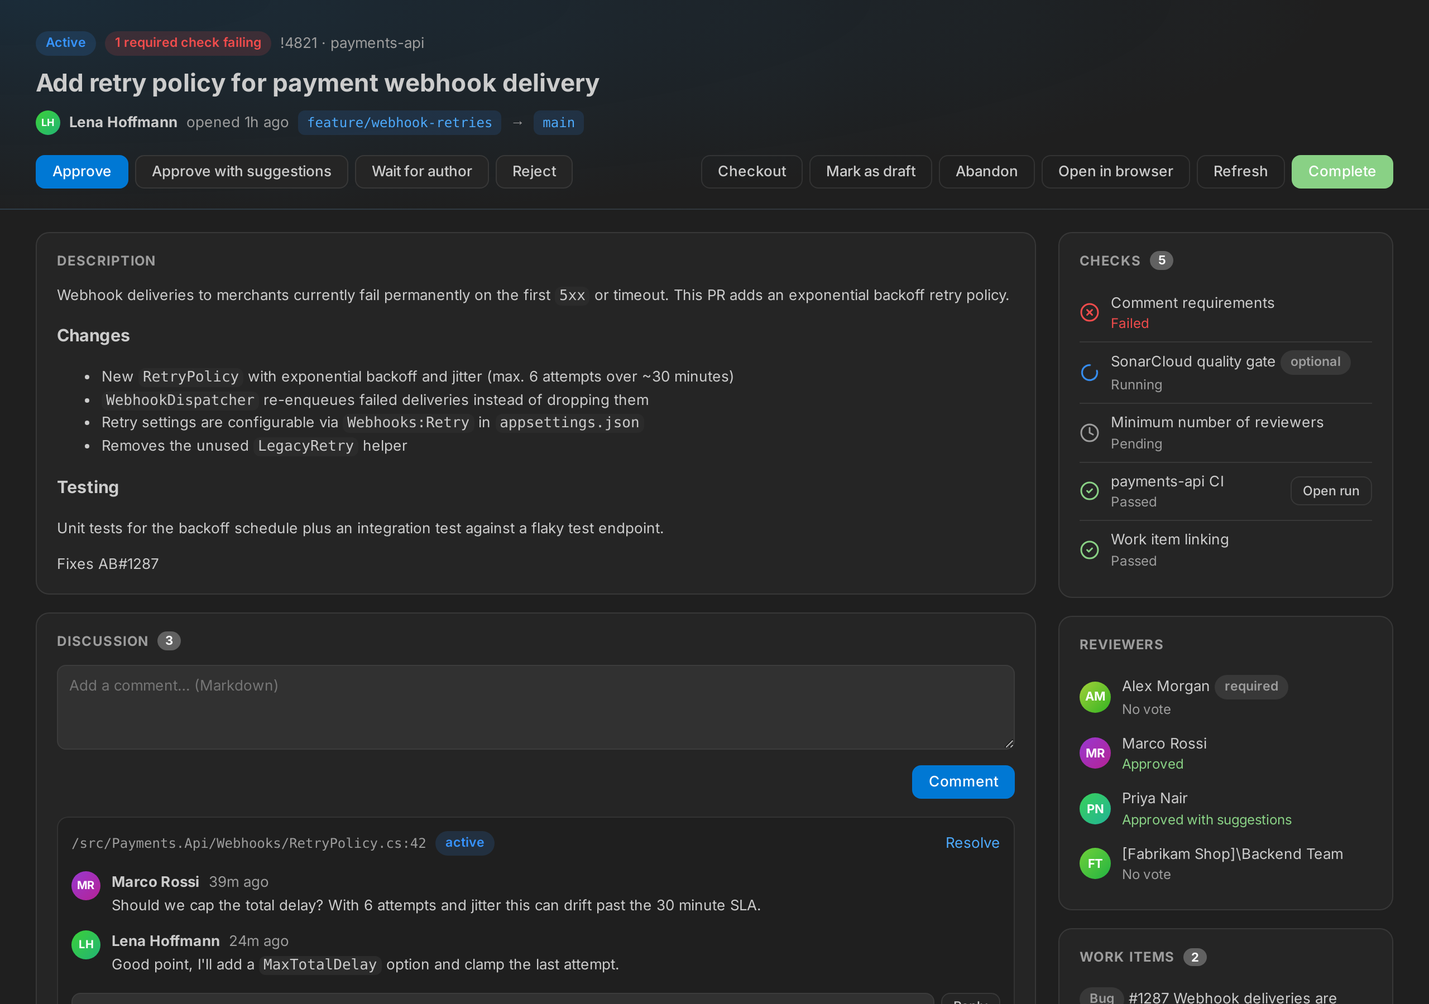
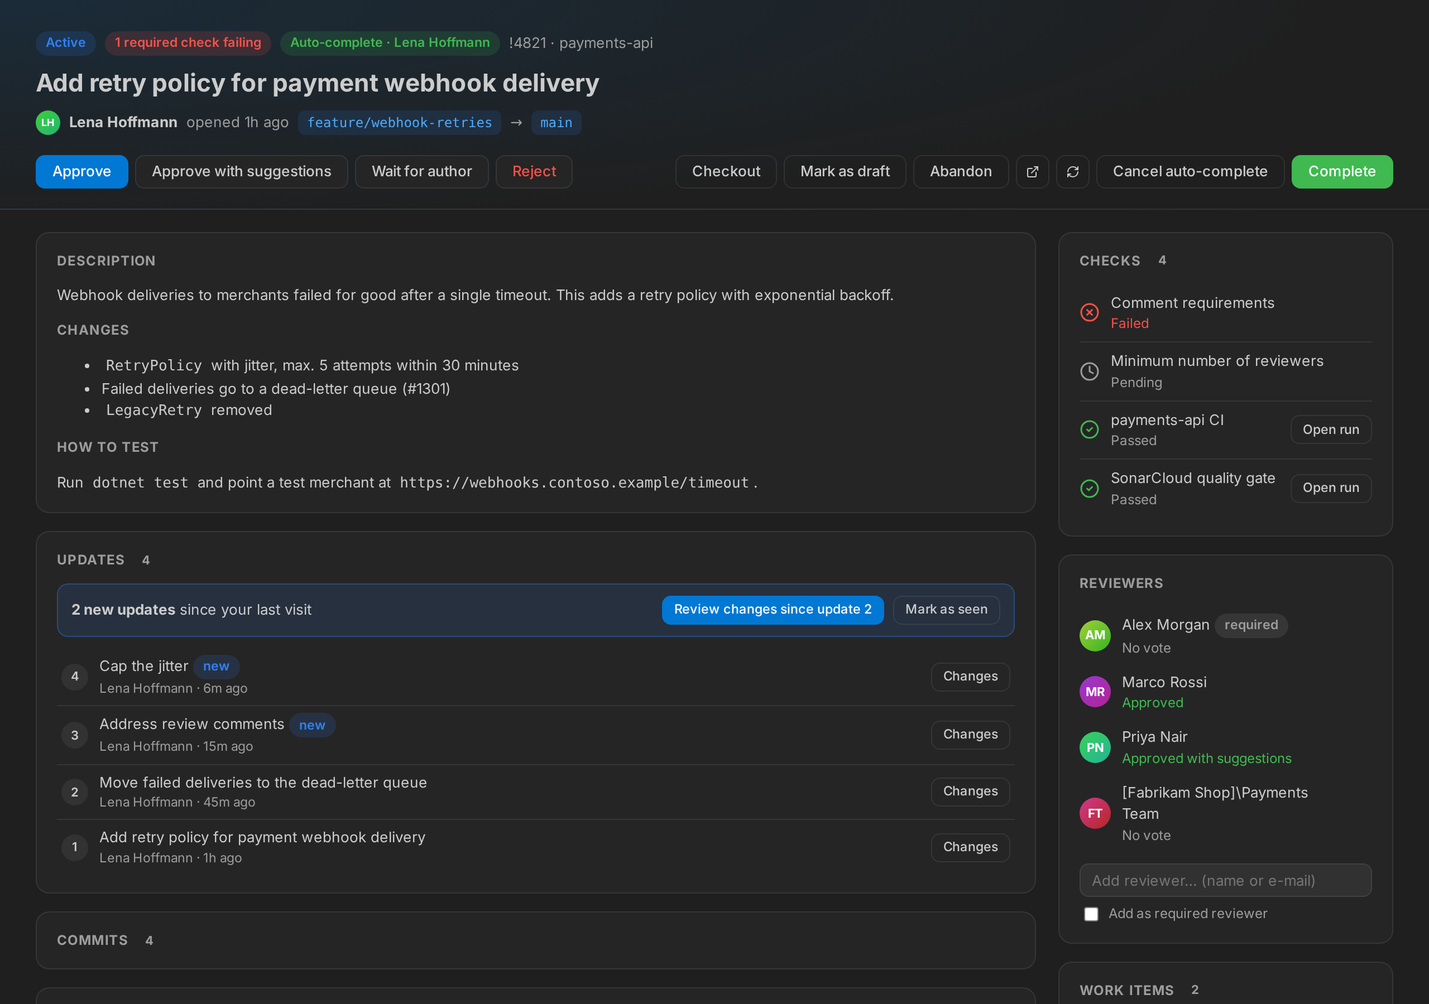
Update screenshots and fix layout issues they revealed
New screenshots for the sprint tab, project picker, pull request form,
work item and branches; refreshed pull requests, work items, pipelines,
PR overview and run overview.

Layout fixes: only the active sidebar tab shows its label, work item card
actions float on hover, icon buttons for refresh/open in browser in the
panel toolbars, two-column work item details with short path names,
branch list columns, checkbox widths and the log/branch filter fields.

diff --git a/media/panel.css b/media/panel.css
@@ -87,7 +87,7 @@ button { font: inherit; cursor: pointer; }
 .md code { padding: 1px 4px; }
 .md p:first-child { margin-top: 0; } .md p:last-child { margin-bottom: 0; }
 
-textarea, input {
+textarea, input:not([type=checkbox]):not([type=radio]) {
   width: 100%; font: inherit; color: var(--vscode-input-foreground); background: var(--vscode-input-background);
   border: 1px solid var(--vscode-input-border, var(--border)); border-radius: 8px; padding: 8px 10px; outline: none; resize: vertical;
 }
@@ -385,16 +385,20 @@ details.card[open] > summary h2 { margin-bottom: 10px; }
 .commit .grow { white-space: nowrap; overflow: hidden; text-overflow: ellipsis; }
 
 /* ---------- work item details ---------- */
-.field.edit { align-items: center; }
-.field-input { min-width: 0; max-width: 60%; height: 26px; padding: 0 6px; border-radius: 6px; border: 1px solid var(--border);
+.field.edit { display: grid; grid-template-columns: 120px minmax(0, 1fr); align-items: center; gap: 10px; }
+.field.edit > .muted { white-space: nowrap; overflow: hidden; text-overflow: ellipsis; }
+.field-input { width: 100%; min-width: 0; height: 26px; padding: 0 6px; border-radius: 6px; border: 1px solid var(--border);
   background: var(--vscode-input-background); color: var(--vscode-input-foreground); font: inherit; }
 .field-input:focus { outline: none; border-color: var(--vscode-focusBorder); }
-input.field-input { width: 60%; }
-.assignee { display: flex; align-items: center; gap: 6px; }
+input.field-input { padding: 0 8px; }
+.assignee { display: flex; align-items: center; gap: 6px; min-width: 0; }
+.assignee > span:not(.avatar) { flex: 1; min-width: 0; white-space: nowrap; overflow: hidden; text-overflow: ellipsis; }
+.assignee .avatar { flex: none; }
 .sub-h { margin: 12px 0 4px; font-size: 11px; text-transform: uppercase; letter-spacing: .06em; color: var(--muted); display: flex; gap: 6px; align-items: center; }
 .sub-h:first-of-type { margin-top: 0; }
 .add-child { display: flex; gap: 6px; margin-top: 8px; }
-.add-child input { flex: 1; min-width: 0; }
+.add-child input { flex: 1; min-width: 0; height: 28px; padding: 0 8px; }
+.add-child .btn { height: 28px; }
 .add-child select { height: 28px; border-radius: 6px; border: 1px solid var(--border); background: var(--vscode-input-background); color: var(--fg); }
 .hist { padding: 8px 0; border-top: 1px solid var(--border); }
 .hist:first-of-type { border-top: 0; }
@@ -412,16 +416,20 @@ input.field-input { width: 60%; }
 .cpr-commits ul { margin: 4px 0 0; padding-left: 18px; color: var(--muted); font-size: 12.5px; max-height: 200px; overflow: auto; }
 
 /* ---------- repositories & branches ---------- */
+.run.repos { max-width: 1080px; }
+.log-search input, .run .log-search input:not([type=checkbox]) { border: 0; padding: 0; min-height: 0; background: transparent; box-shadow: none; width: auto; flex: 1; }
 .repos .run-head select { height: 30px; border-radius: 8px; padding: 0 8px; border: 1px solid var(--border); background: var(--vscode-input-background); color: var(--fg); max-width: 40%; }
 .repo-bar { display: flex; align-items: center; gap: 6px; flex-wrap: wrap; margin: 0 0 12px; }
 .repo-bar .log-search input { width: 220px; }
 .branch-list { display: flex; flex-direction: column; gap: 6px; }
-.branch-row { display: grid; grid-template-columns: minmax(0, 1fr) 190px auto; align-items: center; gap: 12px; padding: 8px 12px;
+.branch-row { display: grid; grid-template-columns: minmax(0, 1fr) 170px 330px; align-items: center; gap: 16px; padding: 8px 12px;
   border: 1px solid var(--border); border-radius: 10px; background: var(--card); }
 .branch-row.current { border-color: color-mix(in srgb, var(--ok) 50%, var(--border)); }
-.branch-main { min-width: 0; }
-.branch-main .small { white-space: nowrap; overflow: hidden; text-overflow: ellipsis; }
-.branch-actions { display: flex; gap: 4px; flex-wrap: wrap; justify-content: flex-end; opacity: .55; transition: opacity .15s; }
+.branch-main { min-width: 0; display: flex; flex-direction: column; align-items: flex-start; gap: 2px; }
+.branch-main .branch { max-width: 100%; white-space: nowrap; overflow: hidden; text-overflow: ellipsis; }
+.branch-row > .pill { justify-self: start; }
+.branch-main .small { max-width: 100%; white-space: nowrap; overflow: hidden; text-overflow: ellipsis; }
+.branch-actions { display: flex; gap: 4px; flex-wrap: nowrap; justify-content: flex-end; opacity: .55; transition: opacity .15s; }
 .branch-row:hover .branch-actions, .branch-actions:focus-within { opacity: 1; }
 .btn.danger { color: var(--bad); }
 .ab { display: grid; grid-template-columns: 3ch 1fr 1fr 3ch; align-items: center; gap: 4px; font-size: 11px; color: var(--muted); }
@@ -433,4 +441,7 @@ input.field-input { width: 60%; }
 .ab-bar.behind span { background: var(--muted); border-radius: 3px 0 0 3px; }
 .ab-bar.ahead span { background: var(--info); border-radius: 0 3px 3px 0; }
 .btn.more { align-self: center; margin-top: 6px; }
-@media (max-width: 760px) { .branch-row { grid-template-columns: minmax(0, 1fr); } .branch-actions { justify-content: flex-start; opacity: 1; } }
+@media (max-width: 900px) { .branch-row { grid-template-columns: minmax(0, 1fr); } .branch-actions { flex-wrap: wrap; } .branch-actions { justify-content: flex-start; opacity: 1; } }
+
+.btn.icon-only { padding: 0 8px; display: inline-flex; align-items: center; justify-content: center; }
+.btn .i { width: 16px; height: 16px; }

diff --git a/media/sidebar.css b/media/sidebar.css
@@ -104,25 +104,29 @@ button { font: inherit; color: inherit; background: none; border: 0; cursor: poi
 
 /* ---------- tabs ---------- */
 .tabs {
-  position: relative; display: grid; grid-template-columns: repeat(4, 1fr);
+  position: relative; display: flex;
   margin: 0 12px; padding: 3px; border-radius: 10px;
   background: color-mix(in srgb, var(--fg) 6%, var(--bg));
   border: 1px solid var(--border);
 }
 .tab-indicator {
   position: absolute; top: 3px; bottom: 3px; left: 3px;
-  width: calc((100% - 6px) / 4);
-  transform: translateX(calc(var(--idx, 0) * 100%));
+  /* position and width of the active tab, set from sidebar.js */
+  width: var(--w, 25%);
+  transform: translateX(var(--x, 0));
   border-radius: 7px;
   background: var(--vscode-editor-background);
   box-shadow: 0 1px 3px rgb(0 0 0 / .18), 0 0 0 1px var(--border);
-  transition: transform .28s var(--ease);
+  transition: transform .28s var(--ease), width .28s var(--ease);
 }
 .tab {
   position: relative; z-index: 1; display: flex; align-items: center; justify-content: center; gap: 6px;
   height: 28px; padding: 0 6px; border-radius: 7px; color: var(--muted); font-weight: 500; font-size: 12px;
-  transition: color .2s; min-width: 0;
+  transition: color .2s; min-width: 0; flex: 1 1 0;
 }
+/* Only the active tab shows its label, so four tabs fit a narrow sidebar; the others show icon and count. */
+.tab.active { flex: 2.2 1 0; }
+.tab:not(.active) .tab-label { display: none; }
 .tab .i { width: 14px; height: 14px; }
 .tab:hover, .tab.active { color: var(--fg); }
 .tab-label { white-space: nowrap; overflow: hidden; text-overflow: ellipsis; }
@@ -132,7 +136,7 @@ button { font: inherit; color: inherit; background: none; border: 0; cursor: poi
   background: var(--vscode-badge-background); color: var(--vscode-badge-foreground);
 }
 .tab:not(.active) .badge { background: var(--border-strong); color: var(--fg); }
-@media (max-width: 380px) { .tab-label { display: none; } }
+@media (max-width: 260px) { .tab-label { display: none; } .tab.active { flex: 1 1 0; } }
 
 /* ---------- toolbar ---------- */
 .toolbar { padding: 10px 12px 6px; display: flex; flex-direction: column; gap: 8px; }
@@ -146,7 +150,7 @@ button { font: inherit; color: inherit; background: none; border: 0; cursor: poi
 .search .i { width: 14px; height: 14px; }
 .search input { flex: 1; min-width: 0; border: 0; outline: none; background: none; color: var(--vscode-input-foreground); font: inherit; }
 .search input::placeholder { color: var(--vscode-input-placeholderForeground); }
-.filters { min-height: 26px; }
+.filters { min-height: 26px; display: flex; flex-direction: column; gap: 8px; }
 .chips { display: flex; gap: 6px; flex-wrap: wrap; flex: 1; }
 .chip {
   height: 24px; padding: 0 10px; border-radius: 99px; font-size: 11.5px; font-weight: 500;
@@ -212,6 +216,14 @@ button { font: inherit; color: inherit; background: none; border: 0; cursor: poi
 }
 .card:hover .card-actions, .card:focus-within .card-actions, .card.open .card-actions { opacity: 1; transform: none; }
 @media (hover: none) { .card-actions { opacity: 1; transform: none; } }
+/* Work item cards have five actions: a floating row on hover instead of a column that makes every card tall. */
+.card.wi .card-actions {
+  position: absolute; top: 6px; right: 6px; z-index: 2; flex-direction: row; margin: 0; padding: 2px;
+  border-radius: 8px; background: var(--card-hover); border: 1px solid var(--border); box-shadow: 0 6px 16px -8px rgb(0 0 0 / .6);
+  pointer-events: none;
+}
+.card.wi:hover .card-actions, .card.wi:focus-within .card-actions { pointer-events: auto; }
+@media (hover: none) { .card.wi .card-actions { position: static; box-shadow: none; pointer-events: auto; } }
 
 .tag {
   display: inline-flex; align-items: center; height: 17px; padding: 0 6px; margin-right: 4px; border-radius: 5px;

diff --git a/src/workItems/wiPanel.ts b/src/workItems/wiPanel.ts
@@ -2,7 +2,7 @@ import * as vscode from 'vscode';
 import { AdoClient, PrArtifact, parsePrArtifact } from '../client';
 import { PullRequest, WorkItem, WorkItemComment, WorkItemState, WorkItemTypeField, WorkItemUpdate } from '../types';
 import {
-  avatarHtml, errorMessage, escapeHtml, guarded, LINK_PICKER_SCRIPT, LinkCandidate, linkPickerHtml, panelHtml, sanitizeHtml, shortRef, showError, timeAgo,
+  avatarHtml, errorMessage, escapeHtml, guarded, LINK_PICKER_SCRIPT, LinkCandidate, linkPickerHtml, panelHtml, sanitizeHtml, shortRef, showError, timeAgo, viewButtonsHtml,
 } from '../util';
 import { EditableField, editableFields, hierarchyOf, HistoryEntry, historyEntries, joinTags, PARENT_REL, splitTags } from './wiModel';
 
@@ -327,10 +327,17 @@ function hierarchyHtml(v: View): string {
   </div>`;
 }
 
+/** Iteration and area paths without the project name ("Sprint 42" instead of "Fabrikam Shop\\Sprint 42"). */
+function pathLabel(path: string): string {
+  const parts = path.split('\\');
+  return parts.length > 1 ? parts.slice(1).join(' › ') : path;
+}
+
 function select(name: string, current: string, options: string[], kind = 'text'): string {
   const all = options.includes(current) || !current ? options : [current, ...options];
   const empty = current ? '' : '<option value="" selected></option>';
-  const opts = all.map(o => `<option ${o === current ? 'selected' : ''}>${escapeHtml(o)}</option>`).join('');
+  const label = kind === 'path' ? pathLabel : (o: string) => o;
+  const opts = all.map(o => `<option value="${escapeHtml(o)}" title="${escapeHtml(o)}" ${o === current ? 'selected' : ''}>${escapeHtml(label(o))}</option>`).join('');
   return `<select class="field-input" data-field="${escapeHtml(name)}" data-kind="${kind}">${empty}${opts}</select>`;
 }
 
@@ -346,13 +353,14 @@ function detailsHtml(v: View): string {
   const assignee = assigned
     ? `${avatarHtml(assigned.displayName, 20)}<span>${escapeHtml(assigned.displayName)}</span><button class="link" data-action="unassign">Unassign</button>`
     : '<span class="muted">Unassigned</span>';
-  const created = f['System.CreatedDate'] ? escapeHtml(new Date(f['System.CreatedDate']).toLocaleString()) : '';
+  const created = f['System.CreatedDate']
+    ? escapeHtml(new Date(f['System.CreatedDate']).toLocaleDateString(undefined, { dateStyle: 'medium' })) : '';
   return `<div class="card"><h2>Details</h2>
     <div class="field edit"><span class="muted">Assigned to</span>
       <div class="assignee">${assignee}</div></div>
     ${linkPickerHtml('Assign to… (name or e-mail)', 'assignee')}
-    ${row('Iteration', select('System.IterationPath', String(f['System.IterationPath'] ?? ''), v.iterations))}
-    ${row('Area', select('System.AreaPath', String(f['System.AreaPath'] ?? ''), v.areas))}
+    ${row('Iteration', select('System.IterationPath', String(f['System.IterationPath'] ?? ''), v.iterations, 'path'))}
+    ${row('Area', select('System.AreaPath', String(f['System.AreaPath'] ?? ''), v.areas, 'path'))}
     ${planning}
     ${row('Tags', `<input class="field-input" id="tags" value="${escapeHtml(splitTags(f['System.Tags']).join(', '))}" placeholder="tag1, tag2">`)}
     <div class="field"><span class="muted">Created</span><span>${escapeHtml(f['System.CreatedBy']?.displayName ?? '')} · ${created}</span></div>
@@ -399,8 +407,7 @@ function bodyHtml(v: View): string {
     <button class="btn primary" data-action="assignMe">Assign to me</button>
     <button class="btn ghost" data-action="branch">Create branch</button>
     <span class="spacer"></span>
-    <button class="btn ghost" data-action="browser">Open in browser</button>
-    <button class="btn ghost" data-action="refresh">Refresh</button>
+    ${viewButtonsHtml()}
   </div>
 </header>
 <main class="grid">

diff --git a/src/util.ts b/src/util.ts
@@ -2,6 +2,21 @@ import { randomBytes } from 'crypto';
 import * as vscode from 'vscode';
 import { AdoError } from './client';
 
+const svg = (paths: string) =>
+  `<svg class="i" viewBox="0 0 24 24" width="16" height="16" fill="none" stroke="currentColor" stroke-width="2" stroke-linecap="round" stroke-linejoin="round" aria-hidden="true">${paths}</svg>`;
+
+/** Icon-only toolbar buttons shared by the editor panels (Lucide icons, ISC license). */
+export const TOOLBAR_ICONS = {
+  refresh: svg('<path d="M3 12a9 9 0 0 1 9-9 9.75 9.75 0 0 1 6.74 2.74L21 8"/><path d="M21 3v5h-5"/><path d="M21 12a9 9 0 0 1-9 9 9.75 9.75 0 0 1-6.74-2.74L3 16"/><path d="M8 16H3v5"/>'),
+  browser: svg('<path d="M15 3h6v6"/><path d="M10 14 21 3"/><path d="M18 13v6a2 2 0 0 1-2 2H5a2 2 0 0 1-2-2V8a2 2 0 0 1 2-2h6"/>'),
+};
+
+/** Refresh and "open in browser" as compact icon buttons with tooltips. */
+export function viewButtonsHtml(): string {
+  return `<button class="btn ghost icon-only" data-action="browser" title="Open in browser" aria-label="Open in browser">${TOOLBAR_ICONS.browser}</button>
+    <button class="btn ghost icon-only" data-action="refresh" title="Refresh" aria-label="Refresh">${TOOLBAR_ICONS.refresh}</button>`;
+}
+
 /** "1 file", "3 files". */
 export function plural(n: number, word: string, many = `${word}s`): string {
   return `${n} ${n === 1 ? word : many}`;

diff --git a/media/sidebar.js b/media/sidebar.js
@@ -470,12 +470,20 @@
   function renderTabs() {
     const el = document.getElementById('tabs');
     if (!el) return;
-    const idx = TABS.findIndex((t) => t.id === S.tab);
-    el.style.setProperty('--idx', String(idx));
+
     el.innerHTML = `<span class="tab-indicator"></span>` + TABS.map((t) => `
       <button role="tab" class="tab ${t.id === S.tab ? 'active' : ''}" data-tab="${t.id}" aria-selected="${t.id === S.tab}" title="${t.label}">
         ${icon(t.icon)}<span class="tab-label">${t.label}</span>${S.counts[t.id] === undefined ? '' : '<span class="badge">' + S.counts[t.id] + '</span>'}
       </button>`).join('');
+    placeIndicator(el);
+  }
+
+  /** Moves the highlight under the active tab (tabs have different widths). */
+  function placeIndicator(el) {
+    const active = el.querySelector('.tab.active');
+    if (!(active instanceof HTMLElement)) return;
+    el.style.setProperty('--x', `${active.offsetLeft - 3}px`);
+    el.style.setProperty('--w', `${active.offsetWidth}px`);
   }
 
   function chips(list, active, kind) {
@@ -1120,6 +1128,11 @@
 
   every(() => 5, () => {
     if (S.focused && isStale(S.tab)) refreshVisible();
+  });
+
+  window.addEventListener('resize', () => {
+    const tabs = document.getElementById('tabs');
+    if (tabs) placeIndicator(tabs);
   });
 
   window.addEventListener('message', (e) => {

diff --git a/src/pullRequests/prPanel.ts b/src/pullRequests/prPanel.ts
@@ -2,7 +2,7 @@ import * as vscode from 'vscode';
 import { AdoClient, PrArtifact } from '../client';
 import { GitCommitRef, PolicyEvaluation, PrIteration, PrThread, PullRequest, WorkItem } from '../types';
 import {
-  avatarHtml, errorMessage, escapeHtml, guarded, LINK_PICKER_SCRIPT, LinkCandidate, linkPickerHtml, panelHtml, plural, renderMarkdown, shortRef, showError, timeAgo, VOTE_LABELS,
+  avatarHtml, errorMessage, escapeHtml, guarded, LINK_PICKER_SCRIPT, LinkCandidate, linkPickerHtml, panelHtml, plural, renderMarkdown, shortRef, showError, timeAgo, viewButtonsHtml, VOTE_LABELS,
 } from '../util';
 import { CheckKind, summarizeChecks } from './checks';
 import { checkoutPullRequest } from './prFiles';
@@ -411,8 +411,7 @@ export class PullRequestPanel {
     <button class="btn ghost" data-action="checkout">Checkout</button>
     <button class="btn ghost" data-action="draft" data-value="${!pr.isDraft}">${pr.isDraft ? 'Publish' : 'Mark as draft'}</button>
     <button class="btn ghost" data-action="abandon">Abandon</button>
-    <button class="btn ghost" data-action="browser">Open in browser</button>
-    <button class="btn ghost" data-action="refresh">Refresh</button>
+    ${viewButtonsHtml()}
     ${autoButton}
     <button class="btn success" data-action="complete">Complete</button>
   </div>

diff --git a/src/repos/reposPanel.ts b/src/repos/reposPanel.ts
@@ -5,7 +5,7 @@ import { ConnectionManager } from '../connection';
 import { currentBranch, localAdoRepos } from '../git';
 import { openBranchDiff } from '../pullRequests/prFiles';
 import { BranchStats, GitRepository } from '../types';
-import { errorMessage, guarded, panelHtml, plural, shortRef } from '../util';
+import { errorMessage, guarded, panelHtml, plural, shortRef, TOOLBAR_ICONS } from '../util';
 
 /** Repositories of the project and their branches: ahead/behind, compare, create, delete, checkout, clone. */
 export class ReposPanel {
@@ -228,8 +228,8 @@ const BODY = `<div class="run repos" id="root">
     <span class="spacer"></span>
     <button class="btn" data-act="create">New branch</button>
     <button class="btn ghost" data-act="clone" id="clone">Clone</button>
-    <button class="btn ghost" data-act="browser">Open in browser</button>
-    <button class="btn ghost" data-act="refresh">Refresh</button>
+    <button class="btn ghost icon-only" data-act="browser" title="Open in browser" aria-label="Open in browser">${TOOLBAR_ICONS.browser}</button>
+    <button class="btn ghost icon-only" data-act="refresh" title="Refresh" aria-label="Refresh">${TOOLBAR_ICONS.refresh}</button>
   </div>
   <div id="error" class="run-alert" hidden></div>
   <div id="list" class="branch-list"></div>

diff --git a/README.md b/README.md
@@ -10,13 +10,16 @@ Review and create pull requests, plan sprints, manage work items, watch pipeline
 
 A sidebar with tabs for pull requests, work items, the current sprint and pipelines. It has search, filter chips, avatars and status badges, and it follows your VS Code theme. Buttons at the top open repositories and the wiki.
 
+<p align="center">
+  <img src="media/screenshots/pull-requests.png" width="24%" alt="Pull requests tab with an expanded pull request, its checks and changed files">
+  <img src="media/screenshots/work-items.png" width="24%" alt="Work items tab">
+  <img src="media/screenshots/sprint.png" width="24%" alt="Sprint tab with progress, work per person and items grouped by state">
+  <img src="media/screenshots/pipelines.png" width="24%" alt="Pipelines tab with running and finished runs">
+</p>
+
 **Several projects at once:** in the project picker, tick more projects of the organization and choose *Show N projects*. Pull requests, work items, sprints, pipelines and approvals of all of them are then listed together, each card marked with its project. Clicking a project name still switches to just that project.
 
-<p align="center">
-  <img src="media/screenshots/pull-requests.png" width="32%" alt="Pull requests tab with an expanded pull request and its changed files">
-  <img src="media/screenshots/work-items.png" width="32%" alt="Work items tab">
-  <img src="media/screenshots/pipelines.png" width="32%" alt="Pipelines tab with running and finished runs">
-</p>
+<p align="center"><img src="media/screenshots/projects.png" width="36%" alt="Project picker with two projects ticked and pull requests of both projects in the list"></p>
 
 ### Pull requests
 
@@ -30,10 +33,12 @@ A sidebar with tabs for pull requests, work items, the current sprint and pipeli
 - **Reviewers and auto-complete:** add people or groups as optional or required reviewers, remove reviewers, and set or cancel auto-complete so the PR merges as soon as all required policies pass.
 - **Updates and commits:** every push to the PR is listed as an update. Open the files of one update, or all changes since your last visit, in the diff editor. The overview tells you how many updates are new since you last looked. The commits of the PR are listed too.
 - **Create pull requests:** *Create Pull Request* (also in the PR tab and the status bar) prefills repository, source and target branch, a title and description from the branch's commits, and work items mentioned in the branch name or commits (`feature/1234-…`, `#1234`, `AB#1234`). Add reviewers, create it as a draft or with auto-complete. A branch that is not pushed yet is pushed first.
+<p align="center"><img src="media/screenshots/create-pr.png" width="70%" alt="Form for a new pull request with reviewers, linked work item and auto-complete"></p>
+
 - **Status bar:** shows the pull request of the checked-out branch with the state of its required checks and approvals, plus the latest pipeline run of the branch. Without a PR it offers *Create PR*.
 - **Checkout:** switch to the source branch in your local repository.
 
-![Pull request overview with description, reviewers, linked work items and discussion](media/screenshots/pr-overview.png)
+![Pull request overview with checks, reviewers, updates since the last visit and description](media/screenshots/pr-overview.png)
 
 ### Work items
 
@@ -45,6 +50,8 @@ A sidebar with tabs for pull requests, work items, the current sprint and pipeli
 - **History:** who changed which field from what to what, and which links were added or removed.
 - Linked pull requests with status, repository and branch. Link more by ID or title.
 - **From code:** select code, or put the cursor on a comment with `TODO`, `FIXME`, `HACK` or `BUG`, and choose *Create Work Item from Code* (context menu or light bulb). The title comes from the comment, the description holds the code and a link to the lines in Azure Repos. A comment gets the new ID added, so it is not reported twice.
+
+![Work item with editable details, hierarchy, repro steps and discussion](media/screenshots/work-item.png)
 
 ### Sprint
 
@@ -61,12 +68,14 @@ The *Sprint* tab shows a team's sprint: dates, working days left, progress again
 - **Live logs:** stream a run's output into a colored terminal.
 - **Run pipeline form:** pick the pipeline, a branch and optionally a commit, set **runtime parameters** read from the YAML (toggles, choices, numbers, text, objects) and override variables. You can also re-run or cancel runs.
 
-![Run overview with stages side by side and the steps of the running job](media/screenshots/run-overview.png)
+![Run overview with parallel stages, a stage waiting for approval and the log of a finished step](media/screenshots/run-overview.png)
 
 ### Repositories and wiki
 
 - **Repositories and branches:** every branch with how far it is ahead of and behind the default branch, its last commit and author. Compare a branch with the default branch file by file in the diff editor, create a pull request, create or delete branches on the server, check a branch out, or clone the repository.
 - **Wiki:** *Open Wiki Page* searches the page titles of the project wiki. Enter shows the rendered page, the pencil opens it as Markdown; saving writes it back. If someone else changed the page meanwhile, saving is refused instead of overwriting their change. You can also create pages.
+
+![Branches of a repository with ahead/behind counts and actions](media/screenshots/branches.png)
 
 ### Watchers
 

diff --git a/CHANGELOG.md b/CHANGELOG.md
@@ -26,6 +26,9 @@
 
 ### Changed
 
+- Sidebar tabs show the label of the active tab only, so four tabs fit a narrow sidebar; work item card actions float on hover instead of making every card tall
+- Editor panels use icon buttons for refresh and open in browser; work item details use a two-column layout with short iteration and area names
+- New and updated screenshots in the README
 - Policy states of pull requests are loaded with at most six requests at a time; the sprint tab loads only when opened
 - Code reworked to pass the SonarQube (SonarJS) rules without findings
 
